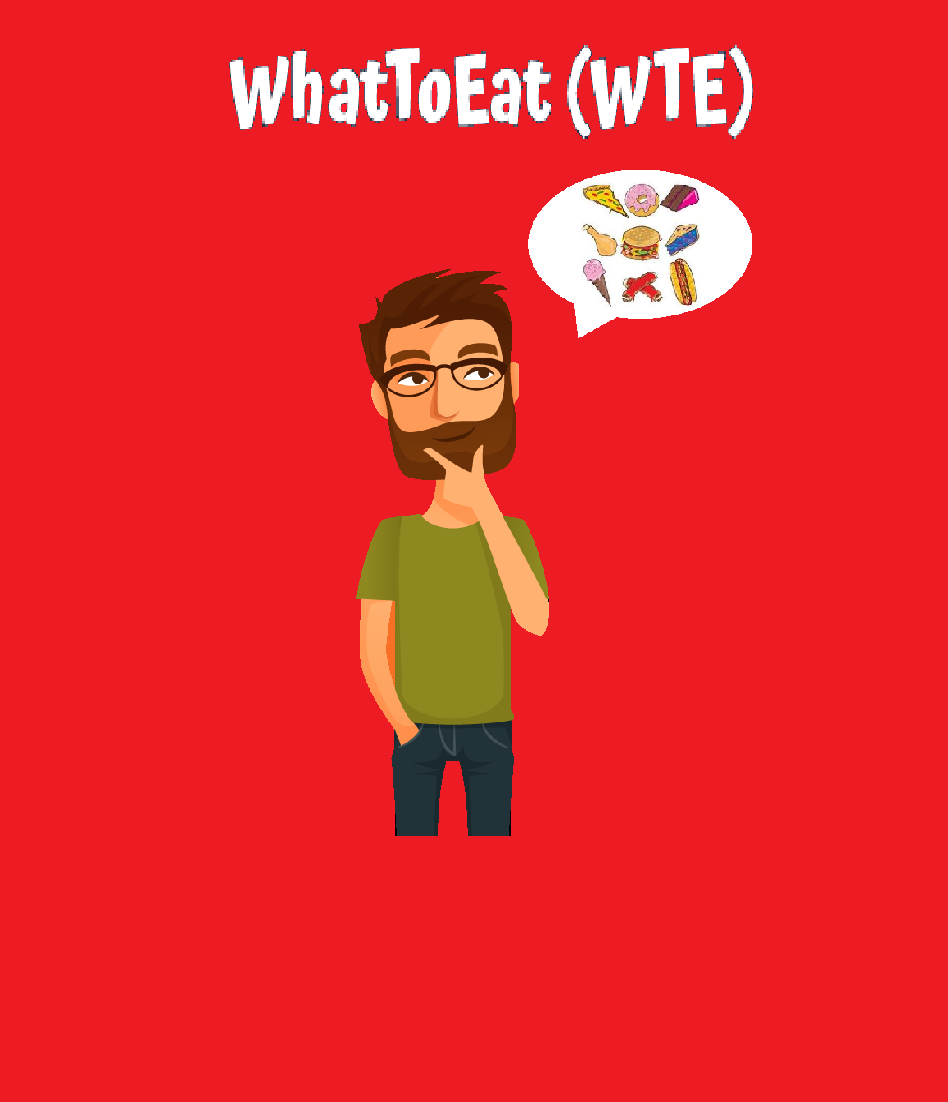
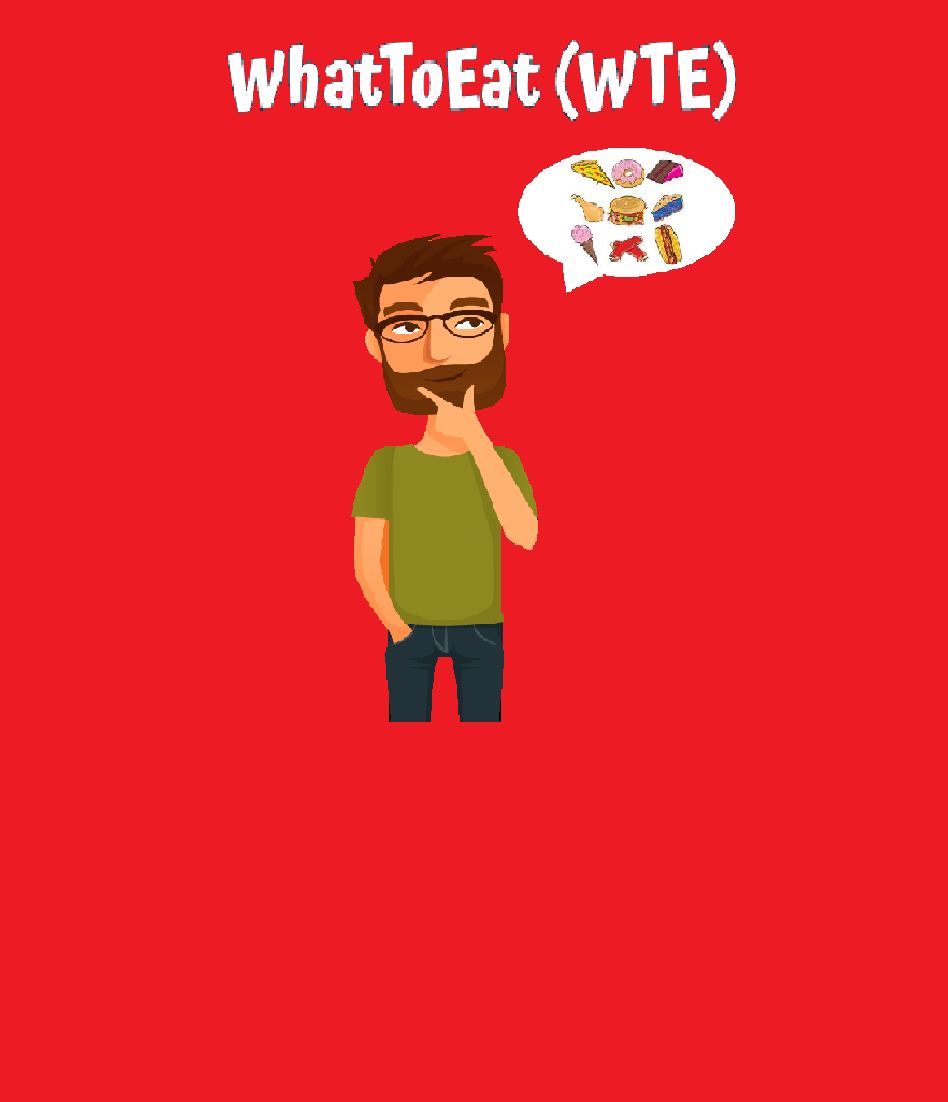
project done, added location input, filter, home button

Changed region(s): [[0.2447, 0.0309, 0.7954, 0.7713]]

diff --git a/components/Main.js b/components/Main.js
@@ -4,27 +4,47 @@ import {
   StyleSheet,
   Text,
   View,
-  TextInput,
-  Button,
+  KeyboardAvoidingView,
   ImageBackground,
   TouchableOpacity,
 } from 'react-native';
+import { TextInput } from 'react-native-paper';
 
 
 export default class MainScreen extends Component {
-
+    state = {
+        input_text: ''
+    }
 
     render() {
         var {navigate} = this.props.navigation;
         return (
+            
             <ImageBackground 
                 source={require('../images/home.png')}
                 style={styles.backgroundImage}
             >
-            <View style={styles.container}>
+            <KeyboardAvoidingView
+            style = {{flex: 1}}
+            behavior="position"
+            >
+            <View style = {styles.input_box}>
+                    <TextInput 
+                        label = 'Input Location'
+                        placeholder='e.g. Western Blvd, corvallis OR' 
+                        value={this.state.input_text}
+                        onChangeText={res => this.setState({input_text: res})}/>
+                        
+                </View>
+            
+
+            <View style={styles.container}>  
+                
                 <View style = {{width: 200, height: 40, backgroundColor:'white', borderRadius: 20}}>
+                
+                
                 <TouchableOpacity 
-                onPress={ () => navigate('Feature', {})}
+                onPress={ () => navigate('Feature', {location: this.state.input_text})}
                 >
                     <Text style={styles.text}>
                         Get Started!
@@ -32,6 +52,7 @@ export default class MainScreen extends Component {
                 </TouchableOpacity>
                 </View>
             </View>
+            </KeyboardAvoidingView>
             </ImageBackground>
         );
     }
@@ -60,7 +81,14 @@ const styles = StyleSheet.create({
         flexDirection: 'row',
         justifyContent: 'center',
         alignItems: 'flex-end',
-        marginBottom: 40
+        
+        bottom: -50
+    },
+    input_box: {
+        width: 200,
+        height: 60,
+        marginTop: 350,
+        alignSelf: 'center'
     }
 });
 

diff --git a/components/Feature.js b/components/Feature.js
@@ -14,15 +14,14 @@ import {
 import { FontAwesomeIcon } from '@fortawesome/react-native-fontawesome';
 import { faThumbsUp, faDice, faStreetView, faDollarSign } from '@fortawesome/free-solid-svg-icons'
 import axios from 'axios';
-
+ 
 const config = {
     headers: {'Authorization': 'Bearer tXL1wN1Q0HWhfFmFKVz8npvGAvpP9FTrkCV00J0m9IGMLKNVwQe1tPDsR7Xmo5ucY4zF1PX7iDzIynF23l0Pav365ZTOunSLP0NxMYKysYjbeNeRYYi4Ykg6mB4dXnYx'},
     params: {
-      location: 'Corvallis, OR',
+      location: "",
       limit: 20
     }
   };
-
 
 export default class FeatureScreen extends Component {
     constructor(props) {
@@ -30,15 +29,17 @@ export default class FeatureScreen extends Component {
         this.state = {
             needLoad: true,
             data: [],
+            loc: '',
         }
     }
     
-    async UNSAFE_componentWillMount() {    
+    async UNSAFE_componentWillMount() {  
+        console.log("will mount")
+        config.params.location = this.props.navigation.getParam('location')
+          
         if (this.state.needLoad){ 
             try {
             await this.fetchData();
-            
-            console.log(this.state.data);
             } catch (err){
 
             }
@@ -53,15 +54,10 @@ export default class FeatureScreen extends Component {
         } ));
     }
 
-    componentDidMount() {
 
-        
-        //.request["_response"]
-        
-        
-    }
     render() {
         console.log("rendered")
+        
         var {navigate} = this.props.navigation;
         return (
             <ImageBackground 

diff --git a/components/PickForMe.js b/components/PickForMe.js
@@ -12,6 +12,8 @@ import {
 
 } from 'react-native';
 
+
+
 import { ListItem } from 'react-native-elements'
 import { FontAwesomeIcon } from '@fortawesome/react-native-fontawesome';
 import { faYelp } from '@fortawesome/free-brands-svg-icons'
